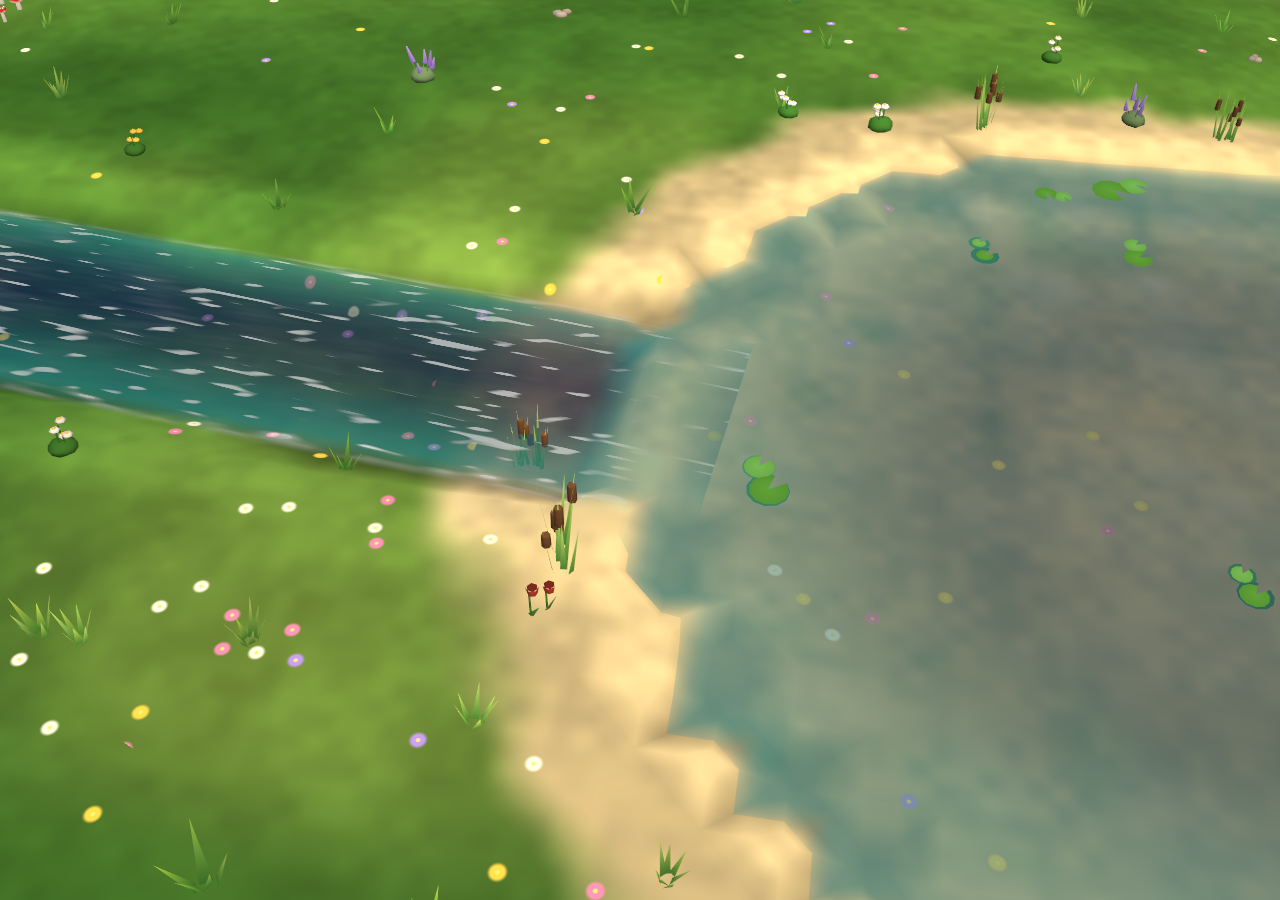
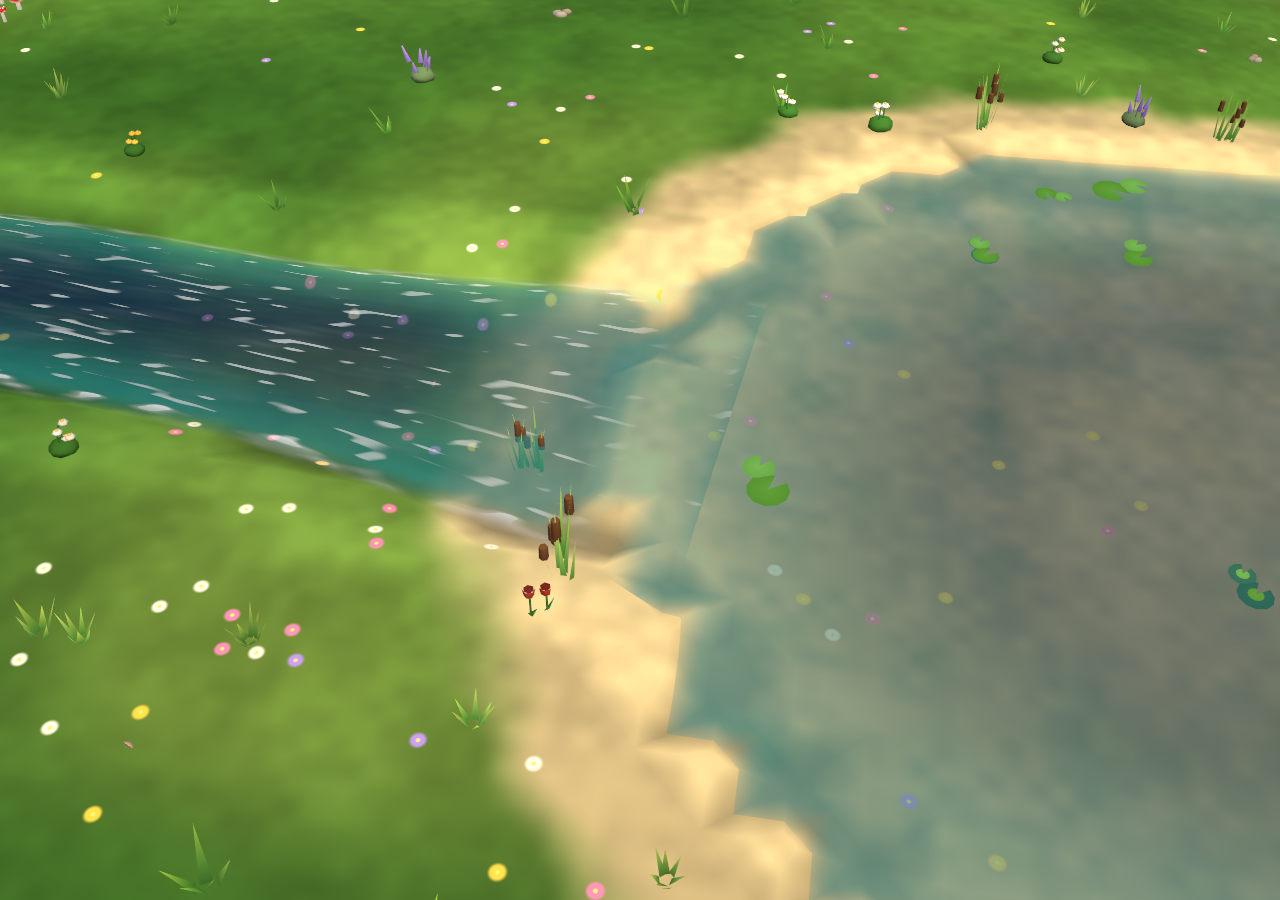
Streams carry on like railways: the old water stays put, the new curves on from its end
Carrying a stream on from its end used to smooth the joint by moving the old stream's last 15 cm and blending the
width into it - leaving the channel already carved where the old stream had been (a ghost trench beside it, a wide
one where a river narrowed to a creek) - and a stroke begun beside the end, or at an angle, came out with a kink.

Now, as for a road or the railway carried on from its end: the old stream is kept exactly as it is, and the new water
leaves its end the way it was going, in one cubic curve that meets the drawn stroke tangent to it - as near as it can
while bending no tighter than 6 degrees every 1.5 cm, further along the stroke if it has to. Whatever was drawn back
over the old stream is dropped. Its width changes from the old end's to the new along the new water (longer for a
bigger change), so a river narrows into a creek, or a creek widens into a river, on the new part only. Still drawn
freehand: no grid.

Into a pond or a lake (or out of one) a stream's last stretch widens into a mouth, half as wide again, and its water
shoals - its colour easing to the lake's shallows - instead of meeting the lake deep, like a pipe.

Roads suite, as a hand draws: a stroke begun 2.5 cm beside a stream's end slanting off at 45 degrees (sharpest
8.1 deg per 1.5 cm; was 15), a river carried on as a creek from back over its end, a creek carried on into the lake:
each one stream, the old part not moved at all, the width gradual, the lake's mouth half as wide again.

diff --git a/Assets/Wonderland/Scripts/World/StreamSystem.cs b/Assets/Wonderland/Scripts/World/StreamSystem.cs
@@ -113,17 +113,19 @@ namespace Wonderland
         }
 
         /// <summary>
-        /// A stream drawn on from the free end of another (its source or its mouth) becomes part of it: one stream, still
-        /// running the way the old one ran, its course curving on from the old one's without a kink and its width
-        /// changing gently from the old one's to the new (a creek widening into a stream, a stream into a river). Both
-        /// ends may carry on streams (joining two into one). The streams joined are taken out of <paramref name="all"/>;
-        /// the result is not levelled yet (<see cref="Relevel"/>). Returns <paramref name="fresh"/> itself when it joins none.
+        /// A stream drawn on from the free end of another (its source or its mouth) becomes part of it, as a railway or
+        /// a road carried on from its end does: one stream, still running the way the old one ran. The old stream stays
+        /// exactly where it is - its channel is already carved there - and the new water leaves its end the way it was
+        /// going, sweeping round in one smooth curve into the line that was drawn, however near the end the stroke began
+        /// and at whatever angle; its width changes gently along the new water from the old one's to the new (a river
+        /// narrowing to a creek, a creek widening to a river). Both ends may carry on streams (joining two into one). The
+        /// streams joined are taken out of <paramref name="all"/>; the result is not levelled yet (<see cref="Relevel"/>).
+        /// Returns <paramref name="fresh"/> itself when it joins none.
         /// </summary>
         public static StreamPath Carry(List<StreamPath> all, StreamPath fresh, TerrainField terrain)
         {
             var p = new List<Vector2>(); var w = new List<float>();
             foreach (var q in fresh.points) { p.Add(new Vector2(q.x, q.z)); w.Add(fresh.Width); }
-            var joints = new List<Vector2>();
             bool oriented = false;
             var freshEnds = new[] { p[0], p[^1] };
             foreach (var freshEnd in freshEnds)
@@ -141,57 +143,112 @@ namespace Wonderland
                         int i = k == 0 ? 0 : s.points.Count - 1;
                         var e = new Vector2(s.points[i].x, s.points[i].z);
                         float d = (e - end).magnitude;
-                        if (d >= HalfWidth * Mathf.Max(s.WidthAt(i), fresh.Width) + 0.035f || d >= bestD || !FreeEnd(all, s, k == 0, terrain)) continue;
+                        if (d >= HalfWidth * Mathf.Max(s.WidthAt(i), fresh.Width) + 0.04f || d >= bestD || !FreeEnd(all, s, k == 0, terrain)) continue;
                         best = s; source = k == 0; bestD = d;
                     }
                 }
                 if (best == null) continue;
                 all.Remove(best);
-                var sp = new List<Vector2>(); var sw = new List<float>();
-                for (int i = 0; i < best.points.Count; i++) { sp.Add(new Vector2(best.points[i].x, best.points[i].z)); sw.Add(best.WidthAt(i)); }
-                // The new stroke must meet the old stream at its free end: turn it round so that end comes last (into a
-                // source) or first (out of a mouth).
-                bool freshFirst = source;   // into its source: the new water first, then the old stream
-                if (freshFirst == atHead) { p.Reverse(); w.Reverse(); }
-                var e0 = source ? sp[0] : sp[^1];
-                var outward = source ? (sp[0] - sp[Mathf.Min(4, sp.Count - 1)]).normalized : (sp[^1] - sp[Mathf.Max(sp.Count - 5, 0)]).normalized;
-                // Whatever was drawn back over the old stream (or right at its end) is not new water.
-                if (freshFirst) { while (p.Count > 2 && Vector2.Dot(p[^1] - e0, outward) < 0.006f) { p.RemoveAt(p.Count - 1); w.RemoveAt(w.Count - 1); } p.AddRange(sp); w.AddRange(sw); }
-                else
-                {
-                    while (p.Count > 2 && Vector2.Dot(p[0] - e0, outward) < 0.006f) { p.RemoveAt(0); w.RemoveAt(0); }
-                    sp.AddRange(p); sw.AddRange(w); p = sp; w = sw;
-                }
-                joints.Add(e0);
+                // Work outwards from the old stream's free end: the old stream ordered to end there, the new stroke to
+                // start there.
+                var old = new List<Vector2>(); var ow = new List<float>();
+                for (int i = 0; i < best.points.Count; i++) { old.Add(new Vector2(best.points[i].x, best.points[i].z)); ow.Add(best.WidthAt(i)); }
+                if (source) { old.Reverse(); ow.Reverse(); }
+                bool freshFromJoint = !atHead;   // (the stroke's end at the joint is its tail: turn it to start there)
+                if (freshFromJoint) { p.Reverse(); w.Reverse(); }
+                var tail = Onwards(old, ow, p, w);
+                // Back in the stream's own order: into a source, the new water first; out of a mouth, the old first.
+                var cp = new List<Vector2>(old); var cw = new List<float>(ow);
+                cp.AddRange(tail.p); cw.AddRange(tail.w);
+                if (source) { cp.Reverse(); cw.Reverse(); }
+                p = cp; w = cw;
                 oriented = true;
             }
             if (!oriented) return fresh;
-            // Evenly spaced again, then smoothed round the joins: the course bends on, the width changes gradually.
-            Resample(p, w, out var rp, out var rw);
-            foreach (var j in joints)
-            {
-                int at = 0; float near = float.MaxValue;
-                for (int i = 0; i < rp.Count; i++) { float d = (rp[i] - j).sqrMagnitude; if (d < near) { near = d; at = i; } }
-                const int reach = 10;
-                for (int it = 0; it < 24; it++)
-                {
-                    var copy = rp.ToArray();
-                    for (int i = Mathf.Max(1, at - reach); i <= Mathf.Min(rp.Count - 2, at + reach); i++)
-                    {
-                        float k = 0.5f * (1f - Mathf.Abs(i - at) / (float)(reach + 1));
-                        rp[i] = copy[i] + ((copy[i - 1] + copy[i + 1]) * 0.5f - copy[i]) * k;
-                    }
-                }
-                const int blend = 12;
-                float before = rw[Mathf.Max(0, at - blend)], after = rw[Mathf.Min(rw.Count - 1, at + blend)];
-                for (int i = Mathf.Max(0, at - blend); i <= Mathf.Min(rw.Count - 1, at + blend); i++)
-                    rw[i] = Mathf.Lerp(before, after, Mathf.SmoothStep(0f, 1f, (i - (at - blend)) / (2f * blend)));
-            }
             var joined = new StreamPath { width = fresh.Width };
-            for (int i = 0; i < rp.Count; i++) { joined.points.Add(new Vector3(rp[i].x, 0f, rp[i].y)); joined.widths.Add(rw[i]); }
+            for (int i = 0; i < p.Count; i++) { joined.points.Add(new Vector3(p[i].x, 0f, p[i].y)); joined.widths.Add(w[i]); }
             // A stream that now begins in a pond and ends on dry land runs the other way: into the pond.
-            if (InPond(terrain, rp[0].x, rp[0].y) && !InPond(terrain, rp[^1].x, rp[^1].y)) { joined.points.Reverse(); joined.widths.Reverse(); }
+            if (InPond(terrain, p[0].x, p[0].y) && !InPond(terrain, p[^1].x, p[^1].y)) { joined.points.Reverse(); joined.widths.Reverse(); }
             return joined;
+        }
+
+        /// <summary>
+        /// The new water on from the end of an old stream (<paramref name="old"/> ends at the joint, <paramref name="p"/>
+        /// is the stroke starting near it): whatever of the stroke lies back over the old stream is dropped; the rest is
+        /// joined on by a curve leaving the old end along the old stream's own heading and meeting the stroke a little way
+        /// along, tangent to it there; then evenly spaced from the joint (the old points are not touched). Its width runs
+        /// from the old end's to the stroke's over the first stretch.
+        /// </summary>
+        private static (List<Vector2> p, List<float> w) Onwards(List<Vector2> old, List<float> ow, List<Vector2> p, List<float> w)
+        {
+            var e0 = old[^1];
+            var heading = (e0 - old[Mathf.Max(0, old.Count - 4)]).normalized;
+            // Drop what was drawn back over the old stream, or right at its end.
+            int first = 0;
+            while (first < p.Count - 3 && Vector2.Dot(p[first] - e0, heading) < 0.01f) first++;
+            var stroke = p.GetRange(first, p.Count - first);
+            float strokeLength = 0f; for (int i = 1; i < stroke.Count; i++) strokeLength += (stroke[i] - stroke[i - 1]).magnitude;
+            // Where the curve meets the stroke: as near as it can while it bends no tighter than a stream would (6 degrees
+            // every 1.5 cm, from the old stream's last stretch on), further along the stroke if it has to - never past
+            // most of it.
+            var before = old.Count >= 2 ? old[^2] : e0 - heading * Spacing;
+            List<Vector2> rp = null; List<float> rw0 = null;
+            for (float want = 0.05f; ; want *= 1.25f)
+            {
+                bool last = want >= strokeLength * 0.8f;
+                int m = 0; float along = 0f;
+                while (m < stroke.Count - 2 && along < Mathf.Min(want, strokeLength * 0.8f)) { along += (stroke[m + 1] - stroke[m]).magnitude; m++; }
+                var p1 = stroke[m];
+                var t1 = (stroke[Mathf.Min(stroke.Count - 1, m + 1)] - stroke[Mathf.Max(0, m - 1)]).normalized;
+                float span = (p1 - e0).magnitude;
+                // A cubic Hermite curve from the old end (along its heading) to the stroke (along it).
+                var curve = new List<Vector2>();
+                int steps = Mathf.Max(4, Mathf.CeilToInt(span / 0.004f));
+                for (int k = 0; k <= steps; k++)
+                {
+                    float t = k / (float)steps, t2 = t * t, t3 = t2 * t;
+                    curve.Add((2f * t3 - 3f * t2 + 1f) * e0 + (t3 - 2f * t2 + t) * span * heading + (-2f * t3 + 3f * t2) * p1 + (t3 - t2) * span * t1);
+                }
+                for (int i = m + 1; i < stroke.Count; i++) curve.Add(stroke[i]);
+                var cw = new List<float>(); foreach (var _ in curve) cw.Add(w[Mathf.Min(w.Count - 1, first)]);
+                Resample(curve, cw, out rp, out rw0);
+                // How sharply the curve bends (the stretch it meets the stroke on included), from the old stream's end on.
+                float sharpest = Vector2.Angle(e0 - before, rp.Count > 1 ? rp[1] - rp[0] : heading);
+                int check = Mathf.Min(rp.Count - 1, Mathf.CeilToInt(along / Spacing) + 3);
+                for (int i = 1; i < check; i++) sharpest = Mathf.Max(sharpest, Vector2.Angle(rp[i] - rp[i - 1], rp[i + 1] - rp[i]));
+                if (sharpest <= 6f || last) break;
+            }
+            var rw = rw0;
+            // Its width: from the old end's to its own, gently over the first stretch (longer for a bigger change).
+            float from = ow[^1], to = rw.Count > 0 ? rw[^1] : from;
+            int blend = Mathf.Clamp(Mathf.RoundToInt((0.06f + Mathf.Abs(to - from) * 0.15f) / Spacing), 3, Mathf.Max(3, rw.Count - 1));
+            for (int i = 0; i < rw.Count; i++) rw[i] = Mathf.Lerp(from, to, Mathf.SmoothStep(0f, 1f, Mathf.Clamp01(i / (float)blend)));
+            // (the first point is the old end itself)
+            rp.RemoveAt(0); rw.RemoveAt(0);
+            return (rp, rw);
+        }
+
+        /// <summary>
+        /// Where a stream runs into a pond or a lake (or out of one), its last stretch widens into a mouth - half as wide
+        /// again at the water - so it opens into it instead of stopping like a pipe.
+        /// </summary>
+        public static void Mouths(StreamPath s, TerrainField terrain)
+        {
+            int n = s.points.Count;
+            if (n < 8) return;
+            int reach = Mathf.Min(n / 3, Mathf.RoundToInt((0.07f + 0.06f * s.MaxWidth) / Spacing));
+            for (int end = 0; end < 2; end++)
+            {
+                int tip = end == 0 ? 0 : n - 1;
+                if (!InPond(terrain, s.points[tip].x, s.points[tip].z) || (end == 0 ? s.JoinsAtStart : s.JoinsAtEnd)) continue;
+                if (s.widths == null || s.widths.Count != n) { s.widths = new List<float>(); for (int i = 0; i < n; i++) s.widths.Add(s.Width); }
+                for (int k = 0; k <= reach; k++)
+                {
+                    int i = end == 0 ? k : n - 1 - k;
+                    float t = 1f - k / (float)reach;
+                    s.widths[i] = s.widths[end == 0 ? reach : n - 1 - reach] * Mathf.Lerp(1f, 1.5f, Mathf.SmoothStep(0f, 1f, t));
+                }
+            }
         }
 
         /// <summary>Points (and their widths) every <see cref="Spacing"/> along the line.</summary>
@@ -590,6 +647,19 @@ namespace Wonderland
                         under[i] = pass == 0 ? run : Mathf.Min(under[i], run);
                     }
                 }
+                // ...and how far it still has to go to reach that water: it shoals as it nears a lake, its colour easing to
+                // the lake's shallows instead of meeting them deep.
+                var toWet = new float[n];
+                for (int pass = 0; pass < 2; pass++)
+                {
+                    float run = float.MaxValue;
+                    for (int k = 0; k < n; k++)
+                    {
+                        int i = pass == 0 ? k : n - 1 - k;
+                        run = wet[i] ? 0f : run + Spacing;
+                        toWet[i] = pass == 0 ? run : Mathf.Min(toWet[i], run);
+                    }
+                }
                 const float fade = 0.025f;
                 float startTaper = wet[0] || s.JoinsAtStart ? 0f : 0.05f, endTaper = wet[n - 1] || s.JoinsAtEnd ? 0f : 0.05f;
                 for (int i = 0; i < n; i++)
@@ -610,7 +680,7 @@ namespace Wonderland
                     {
                         float off = offs[k], u = (off + 1f) * 0.5f;
                         bool rim = Mathf.Abs(off) > 0.99f;
-                        float depth = (1f - off * off) * (wet[i] ? 0.45f : 0.75f);
+                        float depth = (1f - off * off) * (wet[i] ? 0.3f : Mathf.Lerp(0.3f, 0.75f, Mathf.SmoothStep(0f, 1f, toWet[i] / 0.1f)));
                         float shore = Mathf.Max(rim ? 1f : Mathf.Abs(off) > 0.6f ? 0.3f : 0f, rapids * 0.45f);   // (whitewater streaks along the edge, not a white block)
                         var at = new Vector3(p.x, surface - (rim ? 0.003f : 0f), p.z) + side * off * hw;
                         int v = b.AddVertex(at, Vector3.up, new Color(depth, shore, 0.5f + rapids * 0.5f, rim ? 0f : shown));

diff --git a/Assets/Wonderland/Editor/WonderlandJourney.Joins.cs b/Assets/Wonderland/Editor/WonderlandJourney.Joins.cs
@@ -17,16 +17,6 @@ namespace Wonderland.Editor
         private static void JoinJourney()
         {
             bool gridWas = BuildGrid.Snap;
-            float Sharpest(List<Vector2> pts)
-            {
-                float worst = 0f;
-                for (int i = 1; i + 1 < pts.Count; i++)
-                {
-                    var a = pts[i] - pts[i - 1]; var b = pts[i + 1] - pts[i];
-                    if (a.magnitude > 0.004f && b.magnitude > 0.004f) worst = Mathf.Max(worst, Vector2.Angle(a, b));
-                }
-                return worst;
-            }
             foreach (bool grid in new[] { false, true })
             {
                 BuildGrid.Snap = grid;
@@ -149,6 +139,74 @@ namespace Wonderland.Editor
                 Check(sank < 0.0015f, $"Levelling the streams again and again leaves them where they are (sank at most {sank * 1000f:0.0} mm{(sank > 0f ? ", " + where : "")})");
                 Object.DestroyImmediate(w.gameObject);
             }
+            {
+                var w = Scratch("Hand water", 660f);
+                foreach (var (what, ok) in HandWater(w)) Check(ok, what);
+                Object.DestroyImmediate(w.gameObject);
+            }
+        }
+
+        /// <summary>The sharpest turn between neighbouring stretches of a line (degrees).</summary>
+        private static float Sharpest(List<Vector2> pts)
+        {
+            float worst = 0f;
+            for (int i = 1; i + 1 < pts.Count; i++)
+            {
+                var a = pts[i] - pts[i - 1]; var b = pts[i + 1] - pts[i];
+                if (a.magnitude > 0.004f && b.magnitude > 0.004f) worst = Mathf.Max(worst, Vector2.Angle(a, b));
+            }
+            return worst;
+        }
+
+        /// <summary>
+        /// Streams carried on as a hand draws them, on a world with a lake at its east: a stream carried on by a stroke
+        /// begun beside its end and slanting away; a river carried on as a creek by a stroke begun back over its end; a
+        /// creek carried on into the lake. Each comes out one stream, the old part exactly where it was, curving on
+        /// without a kink, its width changing gently, opening out into the lake. Returns the checks.
+        /// </summary>
+        private static List<(string, bool)> HandWater(WonderlandWorld w)
+        {
+            var t = w.Terrain;
+            var results = new List<(string, bool)>();
+            var lake = new Vector3(0.62f, 0f, -0.45f);
+            float level = w.WaterLevelForStroke(lake);
+            Hold(() => w.WaterStroke(lake, 0.22f, 0.9f, Dt, level, false), 2f);
+            StreamPath Holding(Vector2 p) => w.Streams.Streams.Find(s => StreamSystem.Nearest(s, p, out _, out _) < 0.01f);
+            void Case(string what, float w0, Vector2[] first, float w1, Vector2[] then, bool lakeEnd)
+            {
+                w.BuildStream(Line(t, first), w0);
+                var before = Holding(first[0]);
+                var kept = before != null ? before.points.ConvertAll(q => new Vector2(q.x, q.z)) : new List<Vector2>();
+                int streams = w.Streams.Streams.Count;
+                w.BuildStream(Line(t, then), w1);
+                var after = Holding(first[0]);
+                bool one = after != null && w.Streams.Streams.Count == streams && StreamSystem.Nearest(after, then[^1], out _, out _) < 0.02f;
+                // The old part where it was: every old point is still on the stream, exactly.
+                float moved = 0f;
+                if (after != null) foreach (var q in kept) moved = Mathf.Max(moved, StreamSystem.Nearest(after, q, out _, out _));
+                float bend = after != null ? Sharpest(after.points.ConvertAll(q => new Vector2(q.x, q.z))) : 999f, step = 0f;
+                if (after != null) for (int i = 1; i < after.points.Count; i++) step = Mathf.Max(step, Mathf.Abs(after.WidthAt(i) - after.WidthAt(i - 1)));
+                string extra = "";
+                bool fine = one && moved < 0.0005f && bend < 10f && step < 0.15f;
+                if (lakeEnd && after != null)
+                {
+                    int n = after.points.Count, back = Mathf.Max(0, n - 12);
+                    float flare = after.WidthAt(n - 1) / after.WidthAt(back);
+                    var mouth = after.points[n - 1];
+                    bool inLake = t.WaterAt(mouth.x, mouth.z) > 0.5f;
+                    fine &= inLake && flare > 1.3f;
+                    extra = $", into the lake {inLake}, its mouth x{flare:0.0}";
+                }
+                else if (after != null) extra = $", width {after.WidthAt(0):0.0} to {after.WidthAt(after.points.Count - 1):0.0}";
+                results.Add(($"Carried on as a hand draws it - {what}: one stream {one}, the old part where it was (moved {moved * 1000f:0.0} mm), curving on (sharpest {bend:0.0} deg per 1.5 cm), its width gradual (at most {step:0.00} a step){extra}", fine));
+            }
+            Case("a stroke begun 2.5 cm beside a stream's end, slanting off at 45 degrees", 1f, new[] { new Vector2(-0.75f, 0.55f), new Vector2(-0.35f, 0.55f) },
+                 1f, new[] { new Vector2(-0.33f, 0.575f), new Vector2(-0.08f, 0.8f) }, false);
+            Case("a river carried on as a creek by a stroke begun back over its end", 2.2f, new[] { new Vector2(-0.75f, 0.1f), new Vector2(-0.35f, 0.1f) },
+                 0.6f, new[] { new Vector2(-0.38f, 0.11f), new Vector2(-0.05f, 0.02f), new Vector2(0.15f, -0.1f) }, false);
+            Case("a creek carried on into the lake", 0.6f, new[] { new Vector2(-0.75f, -0.5f), new Vector2(-0.1f, -0.45f) },
+                 1f, new[] { new Vector2(-0.08f, -0.46f), new Vector2(0.25f, -0.44f), new Vector2(0.55f, -0.45f) }, true);
+            return results;
         }
 
         /// <summary>
@@ -253,6 +311,23 @@ namespace Wonderland.Editor
                 // A creek running into a stream's side.
                 Stream(0.6f, new Vector2(-0.25f, -0.8f), new Vector2(-0.25f, -0.37f));
                 w.UpdateStreamsFromTerrain();
+                {
+                    var hw = Scratch("Hand water", 3f);
+                    hw.Sky.Shown = false;
+                    foreach (var (what, ok) in HandWater(hw)) report.AppendLine($"{(ok ? "ok" : "NOT")}: {what}");
+                    hw.UpdateStreamsFromTerrain();
+                    hw.Forest.RebuildDirty(); hw.Cover.RebuildDirty();
+                    var hc = hw.transform.position;
+                    cam.transform.position = hc + new Vector3(0f, 1.9f, -0.15f); cam.transform.LookAt(hc); cam.fieldOfView = 50f;
+                    WonderlandRenders.Capture(cam, "editor-joins-water-hand.png", 1200, 1200);
+                    foreach (var (name, at) in new[] { ("slant", new Vector2(-0.34f, 0.6f)), ("narrowing", new Vector2(-0.33f, 0.08f)), ("into-lake", new Vector2(0.3f, -0.45f)) })
+                    {
+                        var p = hc + new Vector3(at.x, 0f, at.y);
+                        cam.transform.position = p + new Vector3(0.05f, 0.32f, -0.3f); cam.transform.LookAt(p); cam.fieldOfView = 40f;
+                        WonderlandRenders.Capture(cam, $"editor-joins-water-hand-{name}.png", 1280, 900);
+                    }
+                    Object.DestroyImmediate(hw.gameObject);
+                }
                 w.Forest.RebuildDirty(); w.Cover.RebuildDirty();
                 var c = w.transform.position;
                 cam.transform.position = c + new Vector3(0f, 1.9f, -0.15f); cam.transform.LookAt(c); cam.fieldOfView = 50f;

diff --git a/Assets/Wonderland/Scripts/World/WonderlandWorld.cs b/Assets/Wonderland/Scripts/World/WonderlandWorld.cs
@@ -405,6 +405,7 @@ namespace Wonderland
             // Drawn on from a stream's free end it carries that stream on (one stream, widening or narrowing gently).
             var joined = StreamSystem.Carry(Streams.Streams, path, Terrain);
             StreamSystem.Confluence(Streams.Streams, joined);   // (meeting another's side: curving in, its mouth widening)
+            StreamSystem.Mouths(joined, Terrain);                // (into a pond or a lake: opening out)
             StreamSystem.Relevel(joined, Terrain, Streams.Streams);
             Streams.Streams.Add(joined);
             StreamSystem.Join(Streams.Streams);   // (onto another stream it starts or ends at)
